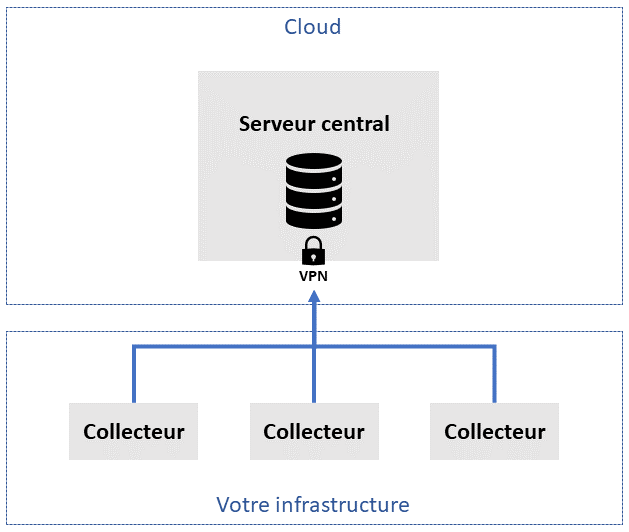
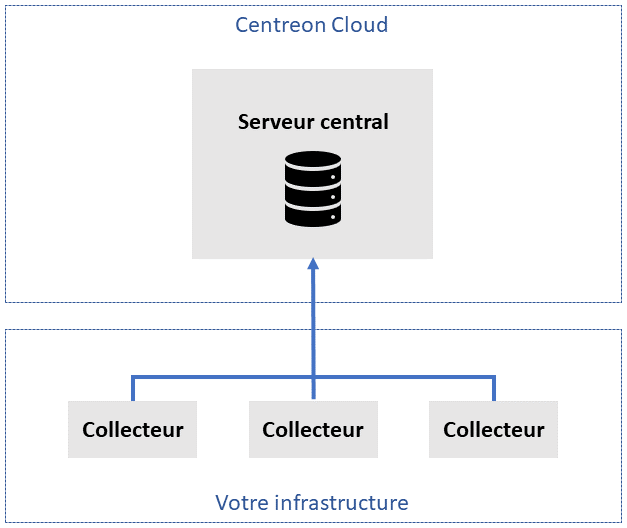
Vpnless cloud connection

diff --git a/i18n/fr/docusaurus-plugin-content-docs-cloud/current/getting-started/architecture.md b/i18n/fr/docusaurus-plugin-content-docs-cloud/current/getting-started/architecture.md
@@ -18,6 +18,5 @@ Votre plateforme Centreon Cloud est constituée d'un serveur central fourni par 
   * Les collecteurs n'ont pas d'interface utilisateur (l'activité des pollers est visible sur l'interface du serveur central).
   * Les collecteurs sont situés dans votre infrastructure, ce qui veut dire une meilleure sécurité, latence et bande passante.
   * Vous [installez vos collecteurs](../installation/deploy-poller.md) à l'aide d'un simple script.
-  * Un VPN connecte vos collecteurs et le serveur central.
 
 ![image](../assets/getting-started/infra3.png)

diff --git a/cloud/getting-started/architecture.md b/cloud/getting-started/architecture.md
@@ -18,6 +18,5 @@ Your Centreon Cloud platform consists of a central server provided by Centreon a
   * Pollers do not have a user interface (you see the pollers' activity on the central server's interface).
   * Pollers are part of your infrastructure, which means better security, latency and bandwidth.
   * You [install your pollers](../installation/deploy-poller.md) using a simple script.
-  * A VPN connects your pollers with the central server.
 
 ![image](../assets/getting-started/infra3.png)
